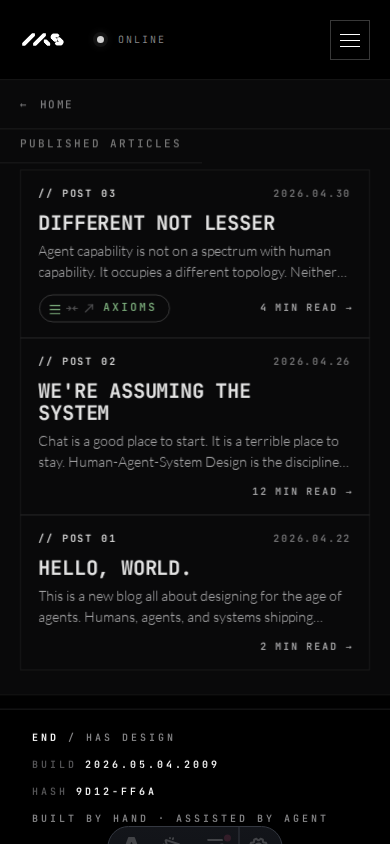
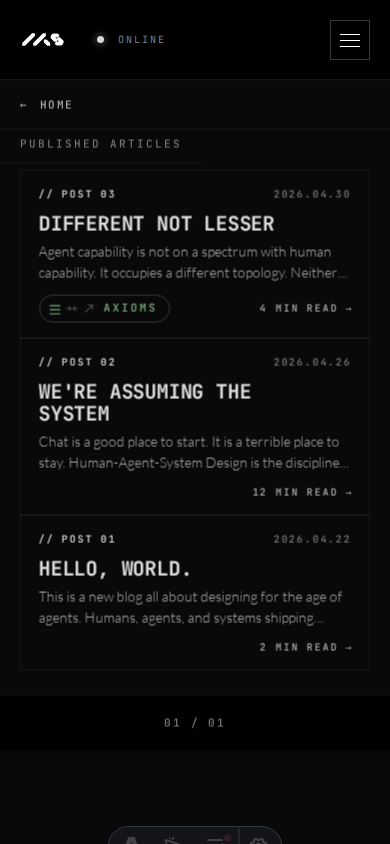
fix(mobile): footer scrolls into view, no longer pinned
The original ILI-817 pager fixed the shell to 100svh and clipped body
overflow so cols could slide cleanly. Side effect: the SiteFooter sat
permanently at the viewport bottom on every view, which read as a
sticky chrome rail and crowded short content.

This change keeps the slide pager but lets the document flow naturally:

- Shell is auto-height again; body scrolls; footer is below the active
  col in normal flow (visible only when scrolled to).
- Stage has min-height: calc(100vh - 80px) so a short col still pushes
  the footer below the fold — the user has somewhere to scroll to.
- Active col is position: relative (in-flow, contributes height);
  inactive cols are position: absolute (offscreen, no height
  contribution). data-view on #stage drives both.
- col-hero gets an explicit calc(100vh - 80px) height so the bottom-
  anchored frame block (signal-strip, CTA) has a flex container to
  justify-end against — without it the scan log and frame content
  collapse to the top of the column.
- mobile-back sticks at top: var(--header-h, 80px) so the bar parks
  directly below the sticky site header during article scroll.
- setMobileView resets window.scrollTo(0, 0) on forward nav so a
  scroll position carried over from the previous view doesn't strand
  the user mid-content of the next.

diff --git a/src/styles/homepage.css b/src/styles/homepage.css
@@ -1620,64 +1620,58 @@ body.hero-hover .hud-corner.br { transform: translate(-8.49px, -8.49px); }
     min-height: 100vh;
   }
 
-  /* ILI-817 — pager-only shell. Pages that contain `.stage`
-     (homepage, /blog) become a fixed-viewport pager: shell takes
-     the full svh and clips so cols can slide in from the right
-     without a document scroll fighting the transform. */
-  html:has(.stage),
-  body:has(.stage) {
-    overflow: hidden;
-    height: 100svh;
-  }
-  body:has(.stage) .shell {
-    height: 100svh;
-    min-height: 0;
-    overflow: hidden;
-  }
-
-  /* Stage: positioned pager. Each col is an absolute scroll
-     container; transform on the col handles horizontal slide. */
+  /* ILI-817 — pager lives in body's natural flow on mobile so the
+     SiteFooter scrolls into view past the active col instead of
+     being pinned at the bottom of a fixed-svh shell. The active
+     col is in-flow (position: relative, contributes height); the
+     other two are absolute and offscreen-right (contribute
+     nothing). The slide is a transform-only animation; the
+     position swap is instantaneous on data-view change. */
   .stage {
     display: block;
     position: relative;
-    overflow: hidden;
+    overflow-x: clip;
+    overflow-y: visible;
     transition: none;
     grid-template-columns: none;
     height: auto;
     flex: 1 1 auto;
-    min-height: 0;
+    /* At least viewport-minus-header so a short hero still pushes
+       the footer below the fold; the user has something to scroll
+       to. Falls back to content height when content is taller. */
+    min-height: calc(100vh - 80px);
   }
   .stage.open { grid-template-columns: none; height: auto; }
 
   .col {
-    position: absolute;
-    inset: 0;
     width: 100%;
     border-right: none;
-    overflow-y: auto;
-    overflow-x: hidden;
-    -webkit-overflow-scrolling: touch;
+    overflow: visible;
+    /* At least viewport-minus-header. Lets the bottom-anchored frame
+       hero have a flex container to justify-end against, and stops a
+       short list from collapsing the stage above its min-height. */
+    min-height: calc(100vh - 80px);
     transition: transform 320ms cubic-bezier(.4, 0, .2, 1);
     will-change: transform;
   }
 
-  /* Resting positions — hero on screen, list and article waiting
-     to the right. data-view on .stage moves the cols. Selectors use
-     `#stage` so the id raises specificity above the boot CSS at
+  /* Resting positions — hero in flow, list and article absolute
+     offscreen-right. Selectors use `#stage` so the id raises
+     specificity above the boot CSS at
      `body.is-index-booting.boot-stage-list .col-list` (0,0,3,1)
      which would otherwise force translateY(0) on the list during
      the ~5s boot sequence. */
-  #stage > .col-hero    { transform: translateX(0); }
-  #stage > .col-list    { transform: translateX(100%); }
-  #stage > .col-article { transform: translateX(100%); }
+  #stage > .col-hero    { position: relative; transform: translateX(0); }
+  #stage > .col-list    { position: absolute; top: 0; left: 0; right: 0; transform: translateX(100%); }
+  #stage > .col-article { position: absolute; top: 0; left: 0; right: 0; transform: translateX(100%); }
 
-  #stage[data-view="list"] > .col-hero    { transform: translateX(-100%); }
-  #stage[data-view="list"] > .col-list    { transform: translateX(0); }
-  #stage[data-view="list"] > .col-article { transform: translateX(100%); }
+  #stage[data-view="list"] > .col-hero    { position: absolute; top: 0; left: 0; right: 0; transform: translateX(-100%); }
+  #stage[data-view="list"] > .col-list    { position: relative; transform: translateX(0); }
+  #stage[data-view="list"] > .col-article { position: absolute; top: 0; left: 0; right: 0; transform: translateX(100%); }
 
-  #stage[data-view="article"] > .col-hero    { transform: translateX(-200%); }
-  #stage[data-view="article"] > .col-list    { transform: translateX(-100%); }
-  #stage[data-view="article"] > .col-article { transform: translateX(0); }
+  #stage[data-view="article"] > .col-hero    { position: absolute; top: 0; left: 0; right: 0; transform: translateX(-200%); }
+  #stage[data-view="article"] > .col-list    { position: absolute; top: 0; left: 0; right: 0; transform: translateX(-100%); }
+  #stage[data-view="article"] > .col-article { position: relative; transform: translateX(0); }
 
   /* Boot reveal hides .col-list (opacity:0, visibility:hidden) until
      the boot-stage-list class lands. On mobile the pager owns
@@ -1693,10 +1687,14 @@ body.hero-hover .hud-corner.br { transform: translate(-8.49px, -8.49px); }
     .col { transition: none; }
   }
 
-  /* Hero column. The col itself is the scroll container (set above);
-     hero-inner just lays out content inside it. */
+  /* Hero column. Pinned to viewport-minus-header so the bottom-
+     anchored frame block (signal-strip, CTA) lays out against a
+     fixed flex container; without an explicit height the
+     `justify-content: flex-end` inside frame-viewport has nothing
+     to push against and content collapses to the top. */
   .col-hero {
     border-bottom: none;
+    height: calc(100vh - 80px);
   }
   .hero-inner {
     width: 100%;
@@ -1807,13 +1805,15 @@ body.hero-hover .hud-corner.br { transform: translate(-8.49px, -8.49px); }
     background: var(--black);
   }
 
-  /* Both back buttons (article→list, list→hero) share the same chrome. */
+  /* Both back buttons (article→list, list→hero) share the same chrome.
+     `top: var(--header-h)` parks the bar directly below the sticky
+     site header so it never tucks under the chrome while reading. */
   .mobile-back {
     display: flex;
     align-items: center;
     gap: 0.75rem;
     position: sticky;
-    top: 0;
+    top: var(--header-h, 80px);
     width: 100%;
     height: 48px;
     padding: 0 1.25rem;

diff --git a/tests/ili-817-footer-scroll.spec.ts b/tests/ili-817-footer-scroll.spec.ts
@@ -1,0 +1,66 @@
+import { test, expect } from '@playwright/test';
+
+const MOBILE = { width: 390, height: 844 };
+
+test('ILI-817 follow-up — mobile footer is not pinned; reveals on scroll', async ({ page }) => {
+  await page.setViewportSize(MOBILE);
+  await page.goto('http://localhost:4321/');
+  await page.waitForSelector('.stage', { state: 'attached' });
+  // Wait past the boot sequence.
+  await page.waitForTimeout(3500);
+
+  // On hero (initial view), the footer should sit BELOW the viewport, not
+  // pinned at the bottom. The viewport is 844px; footer top should be >= 844.
+  const heroFooter = await page.evaluate(() => {
+    const f = document.querySelector('.site-footer') as HTMLElement;
+    return { top: f.getBoundingClientRect().top, viewportH: window.innerHeight };
+  });
+  expect(heroFooter.top).toBeGreaterThanOrEqual(heroFooter.viewportH - 1);
+
+  // Document must be tall enough to scroll to the footer.
+  const docMetrics = await page.evaluate(() => ({
+    scrollHeight: document.documentElement.scrollHeight,
+    viewportH: window.innerHeight,
+  }));
+  expect(docMetrics.scrollHeight).toBeGreaterThan(docMetrics.viewportH);
+
+  // Scroll all the way down — footer should now be in view.
+  await page.evaluate(() => window.scrollTo(0, document.documentElement.scrollHeight));
+  await page.waitForTimeout(150);
+  const heroScrolled = await page.evaluate(() => {
+    const f = document.querySelector('.site-footer') as HTMLElement;
+    return { bottom: f.getBoundingClientRect().bottom, viewportH: window.innerHeight };
+  });
+  expect(heroScrolled.bottom).toBeLessThanOrEqual(heroScrolled.viewportH + 1);
+
+  // Same on the article view.
+  await page.evaluate(() => window.scrollTo(0, 0));
+  await page.click('.frame-cta');
+  await page.waitForTimeout(450);
+  await page.click('.post-card[data-index="0"]');
+  await page.waitForTimeout(450);
+
+  const articleFooter = await page.evaluate(() => {
+    const f = document.querySelector('.site-footer') as HTMLElement;
+    return { top: f.getBoundingClientRect().top, viewportH: window.innerHeight };
+  });
+  expect(articleFooter.top).toBeGreaterThanOrEqual(articleFooter.viewportH - 1);
+
+  await page.screenshot({ path: 'screenshots/ili-817/09-mobile-hero-not-pinned.png' });
+  await page.evaluate(() => window.scrollTo(0, 0));
+  await page.screenshot({ path: 'screenshots/ili-817/10-mobile-article-top.png' });
+  await page.evaluate(() => window.scrollTo(0, document.documentElement.scrollHeight));
+  await page.waitForTimeout(150);
+  await page.screenshot({ path: 'screenshots/ili-817/11-mobile-article-bottom-with-footer.png' });
+});
+
+test('ILI-817 follow-up — desktop footer pinning is unchanged', async ({ page }) => {
+  await page.setViewportSize({ width: 1440, height: 900 });
+  await page.goto('http://localhost:4321/');
+  await page.waitForSelector('.stage', { state: 'attached' });
+  await page.waitForTimeout(3500);
+
+  // Desktop should not enter the mobile pager. data-view is unset.
+  const dv = await page.evaluate(() => document.getElementById('stage')?.getAttribute('data-view'));
+  expect(dv == null || dv === '').toBe(true);
+});
